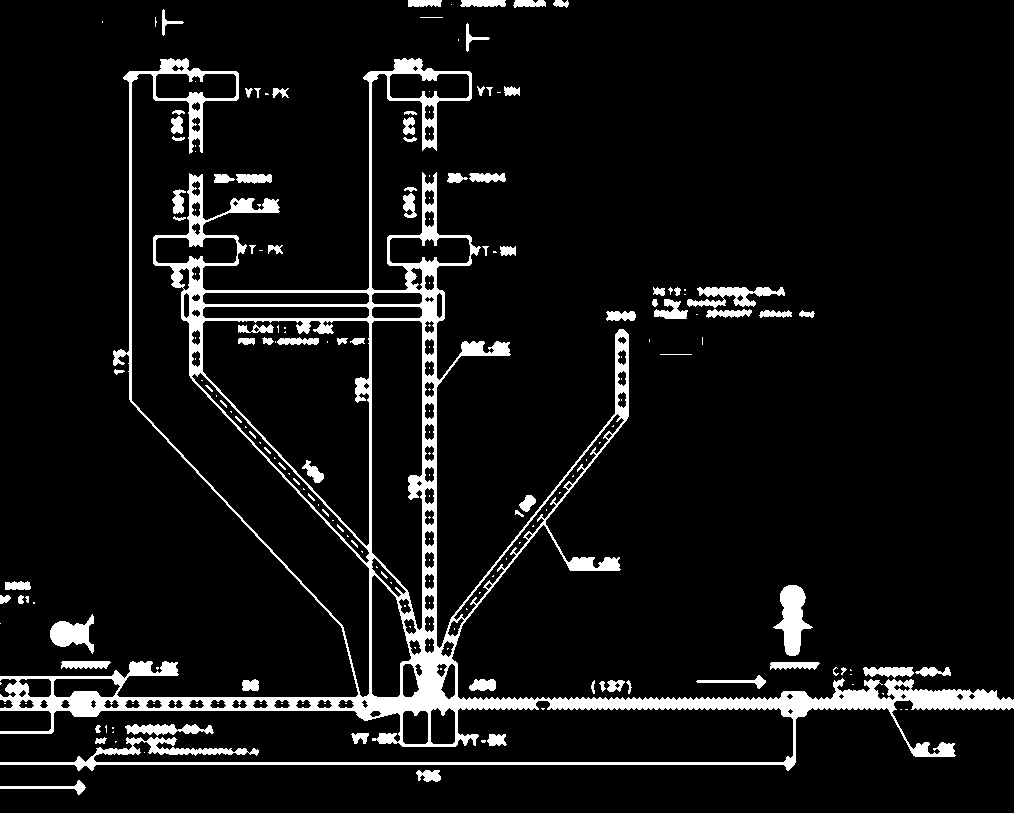
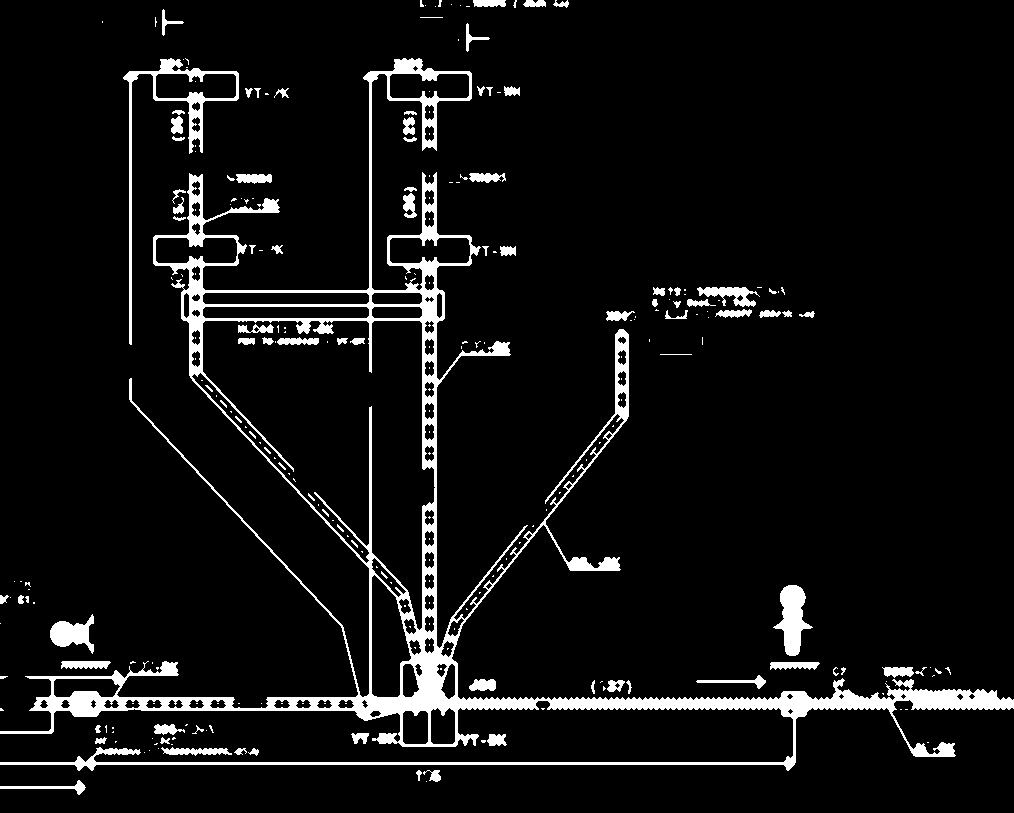
improved noisy connections

diff --git a/component_masker.py b/component_masker.py
@@ -9,7 +9,7 @@ by preferring the largest connected component.
 
 from __future__ import annotations
 
-from typing import Dict, Iterable, Sequence, Tuple
+from typing import Dict, Iterable, Sequence, Tuple, Optional
 
 import cv2
 import numpy as np
@@ -42,6 +42,7 @@ def create_wire_mask(
     clips: Iterable[Dict],
     tapes: Iterable[Dict],
     ocr_data: Iterable[Tuple],
+    lengths: Optional[Iterable[Dict]] = None,
 ) -> np.ndarray:
     """Create a binary mask where wire pixels = 255 and background = 0.
 
@@ -51,16 +52,21 @@ def create_wire_mask(
       • Tape-label boxes   (exact bbox)
       • Blue / yellow colour highlights
 
-    Text, dimension arrows, connector-detail drawings, etc. are LEFT IN.
-    They create small disconnected skeleton fragments which are harmless —
-    the graph-mapping step ignores them by searching only the largest
-    connected component of the skeleton graph.
+    Phase-2 cleanup:
+      • Removes small convex triangular arrowheads from dimension graphics
+      • Removes endpoint regions around non-parenthesized length annotations
     """
+    if lengths is None:
+        lengths = []
 
     # 1. Binarise – Otsu on lightly blurred grayscale
     blurred = cv2.GaussianBlur(gray, (3, 3), 0)
-    _, binary = cv2.threshold(blurred, 0, 255,
-                                cv2.THRESH_BINARY_INV + cv2.THRESH_OTSU)
+    _, binary = cv2.threshold(
+        blurred,
+        0,
+        255,
+        cv2.THRESH_BINARY_INV + cv2.THRESH_OTSU,
+    )
 
     # 2. Remove coloured highlights (blue clips, yellow tape backgrounds)
     hsv = cv2.cvtColor(img_color, cv2.COLOR_BGR2HSV)
@@ -77,15 +83,40 @@ def create_wire_mask(
         center = clip.get("center")
         radius = int(clip.get("radius", 12))
         if center is not None:
-            cv2.circle(binary, (int(center[0]), int(center[1])),
-                       radius + 3, 0, -1)
+            cv2.circle(binary, (int(center[0]), int(center[1])), radius + 3, 0, -1)
 
     for tape in tapes:
         bbox = tape.get("bbox")
         if bbox is not None:
             _erase_rect(binary, bbox, margin=2)
 
-    # 4. Gentle morphological close to bridge dash-dot gaps
+    # 4. Remove small convex triangular arrowheads (dimension endpoints)
+    contours, _ = cv2.findContours(binary, cv2.RETR_EXTERNAL, cv2.CHAIN_APPROX_SIMPLE)
+    for cnt in contours:
+        area = cv2.contourArea(cnt)
+        if area < 20 or area > 350:
+            continue
+        approx = cv2.approxPolyDP(cnt, epsilon=3, closed=True)
+        vtx = len(approx)
+        if vtx < 3 or vtx > 4:
+            continue
+        if not cv2.isContourConvex(approx):
+            continue
+        cv2.drawContours(binary, [approx], -1, 0, thickness=-1)
+
+    # 5. Remove non-parenthesized length endpoints (dimension-line labels)
+    for ln in lengths:
+        if ln.get("is_parenthesized", False):
+            continue
+        bbox = ln.get("bbox")
+        if not bbox or len(bbox) < 4:
+            continue
+        x, y, w, h = bbox
+        cx = int(round(x + w / 2.0))
+        cy = int(round(y + h / 2.0))
+        cv2.circle(binary, (cx, cy), 20, 0, -1)
+
+    # 6. Gentle morphological close to bridge dash-dot gaps
     close_k = cv2.getStructuringElement(cv2.MORPH_ELLIPSE, (3, 3))
     binary = cv2.morphologyEx(binary, cv2.MORPH_CLOSE, close_k, iterations=2)
 

diff --git a/wiring_diagram_detector.py b/wiring_diagram_detector.py
@@ -556,7 +556,7 @@ def detect_wires(gray):
     
     # Build endpoint graph: connect endpoints that should be merged
     GAP_THRESH = 100  # px — allow very long gaps in dashed/segmented wires
-    ANGLE_THRESH = 120  # degrees — allow wide angle variations
+    ANGLE_THRESH = 45  # degrees — allow wide angle variations
     
     # Create adjacency graph: endpoint_id -> list of connected endpoints
     endpoint_graph = {}  # (seg_idx, ep_type) -> [(seg_idx, ep_type), ...]
@@ -2398,7 +2398,7 @@ def main(image_path='/mnt/user-data/uploads/1774639661620_image.png', extract_fi
             )
         else:
             print("Creating component mask ...")
-            wire_mask = create_wire_mask(gray, img, connectors, clips, tapes, ocr_data)
+            wire_mask = create_wire_mask(gray, img, connectors, clips, tapes, ocr_data, lengths)
             cv2.imwrite('debug_wire_mask.png', wire_mask)
 
             nodes_dict = build_component_nodes(connectors, clips, ocr_data, tapes)
